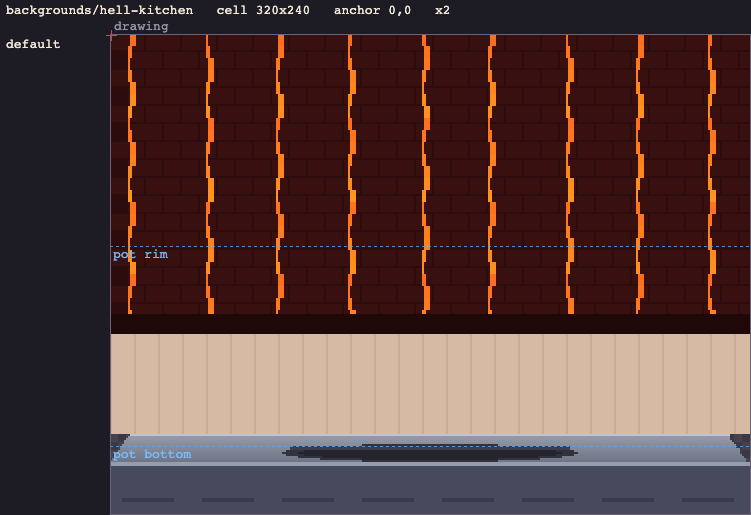
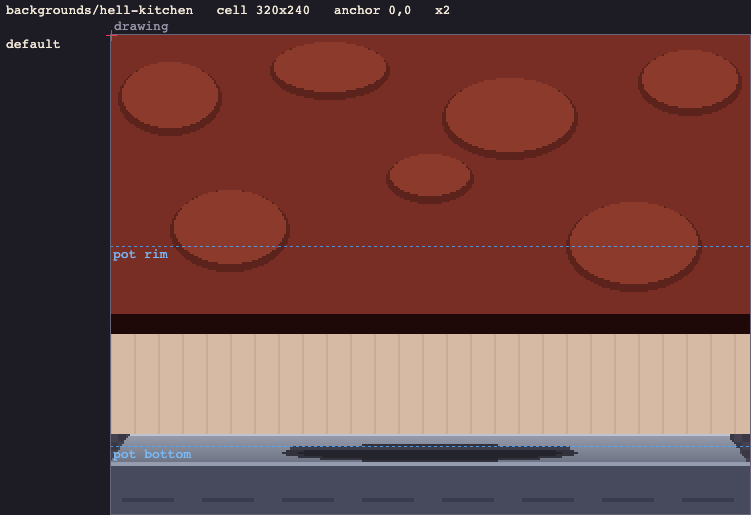
Hell's kitchen as a plain sketch: a reddish rock wall (catalog, Aseprite reference)

diff --git a/js/art.js b/js/art.js
@@ -285,12 +285,10 @@ Art.buildBackground = function (theme = 'kitchen', plain = false) {
   const cv = makeCanvas(W, H), g = cv.getContext('2d');
   const pizza = theme === 'pizza', hell = theme === 'hell';
   if (hell) {
-    // Hell's kitchen: black rock split by glowing lava cracks.
-    rect(g, 0, 0, W, 150, [44, 12, 12]);
-    for (let y = 0; y < 150; y += 9) for (let x = ((y / 9) & 1) * 9; x < W; x += 18) rect(g, x, y, 17, 8, [56, 16, 16]);
-    for (let k = 0; k < 9; k++) {
-      let x = 12 + k * 36, y = 0;
-      while (y < 140) { const nx = x + ((k * 7 + y) % 5) - 2; rect(g, Math.min(x, nx), y, Math.abs(nx - x) + 1, 6, [255, 110 + (y % 40), 30]); x = nx; y += 6; }
+    // Hell's kitchen, as a plain sketch for now: a reddish rock wall, a few rough boulders.
+    rect(g, 0, 0, W, 150, [120, 46, 36]);
+    for (const [x, y, rx, ry] of [[30, 30, 26, 18], [110, 16, 30, 14], [200, 40, 34, 20], [290, 22, 26, 16], [60, 96, 30, 20], [262, 104, 34, 22], [160, 70, 22, 12]]) {
+      ellipse(g, x, y + 2, rx, ry, [92, 34, 28]); ellipse(g, x, y, rx - 2, ry - 2, [140, 58, 44]);
     }
   } else if (pizza) {
     // Exposed brick wall.
